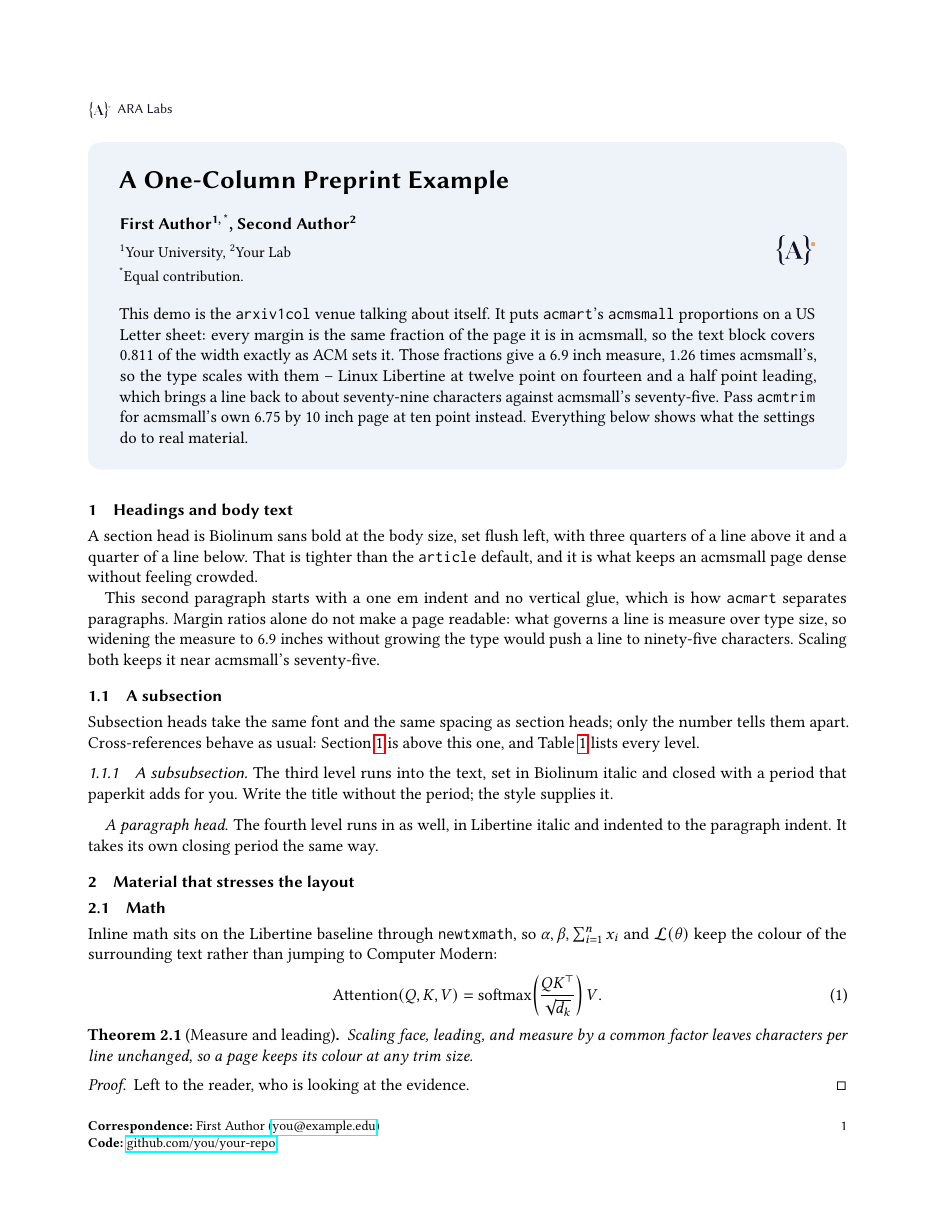
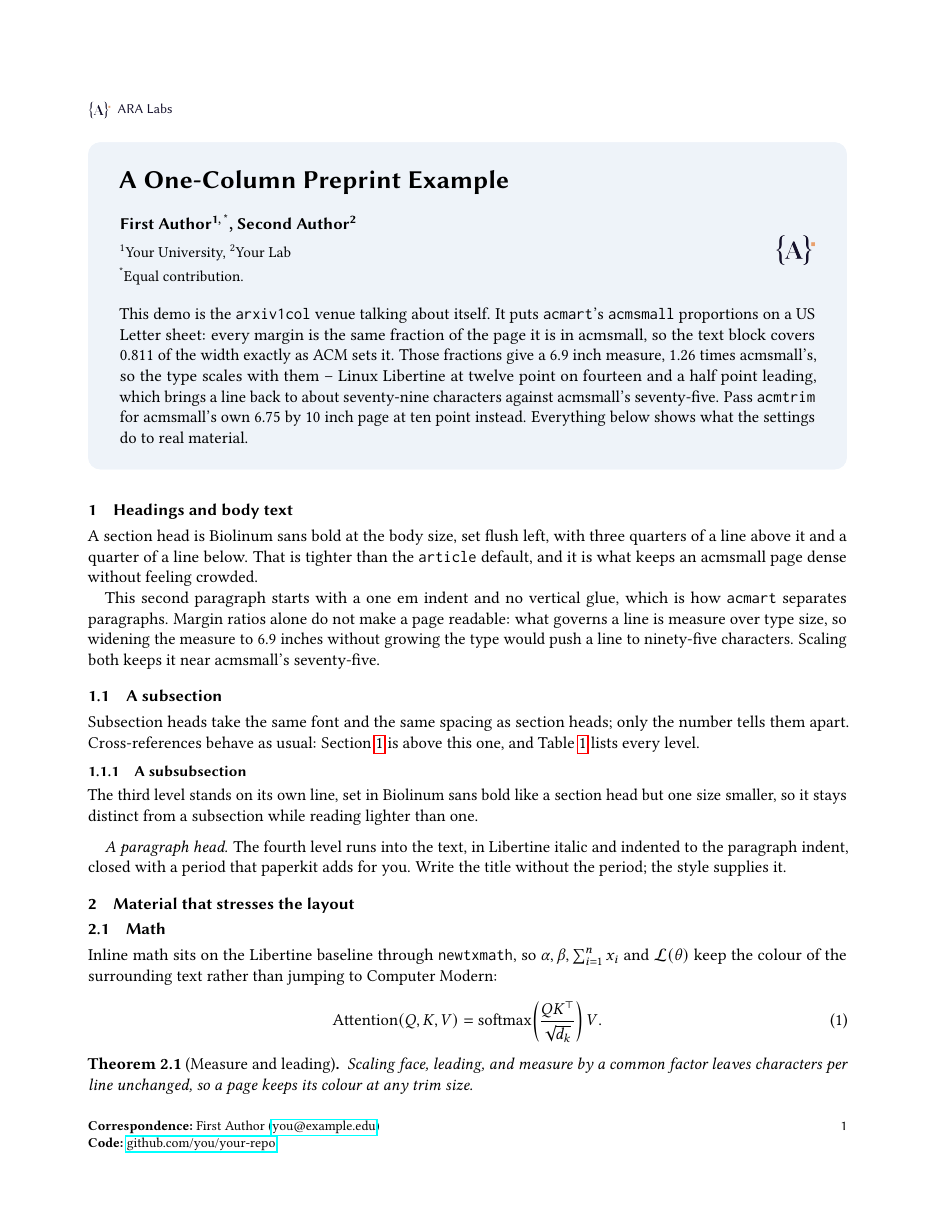
docs: refresh arxiv1col demo and preview for the standalone subsubsection style (#6)
The demo's own prose still described subsubsection as a run-in, italic,
period-terminated head, and the heading-levels table listed it that way
too -- both stale after the subsubsection heading style changed to a
standalone bold line. Update the prose and table, and regenerate
docs/preview-arxiv1col.png from the rebuilt demo so the README
screenshot matches the current output.

Changed region(s): [[0.093, 0.6116, 0.8995, 0.9174]]

diff --git a/examples/arxiv1col-demo.tex b/examples/arxiv1col-demo.tex
@@ -78,13 +78,14 @@ Section~\ref{sec:headings} is above this one, and Table~\ref{tab:levels} lists
 every level.
 
 \subsubsection{A subsubsection}
-The third level runs into the text, set in Biolinum italic and closed with a
-period that paperkit adds for you. Write the title without the period; the
-style supplies it.
+The third level stands on its own line, set in Biolinum sans bold like a
+section head but one size smaller, so it stays distinct from a subsection
+while reading lighter than one.
 
-\paragraph{A paragraph head} The fourth level runs in as well, in Libertine
-italic and indented to the paragraph indent. It takes its own closing period
-the same way.
+\paragraph{A paragraph head} The fourth level runs into the text, in
+Libertine italic and indented to the paragraph indent, closed with a period
+that paperkit adds for you. Write the title without the period; the style
+supplies it.
 
 \section{Material that stresses the layout}
 
@@ -122,10 +123,10 @@ from \verb|\cmark| and \verb|\xmark|.
     \toprule
     Level & Font & Run-in & Numbered \\
     \midrule
-    \texttt{\textbackslash section}       & Biolinum bold   & \xmark & \cmark \\
-    \texttt{\textbackslash subsection}    & Biolinum bold   & \xmark & \cmark \\
-    \texttt{\textbackslash subsubsection} & Biolinum italic & \cmark & \cmark \\
-    \texttt{\textbackslash paragraph}     & Libertine italic & \cmark & \xmark \\
+    \texttt{\textbackslash section}       & Biolinum bold       & \xmark & \cmark \\
+    \texttt{\textbackslash subsection}    & Biolinum bold       & \xmark & \cmark \\
+    \texttt{\textbackslash subsubsection} & Biolinum bold small & \xmark & \cmark \\
+    \texttt{\textbackslash paragraph}     & Libertine italic    & \cmark & \xmark \\
     \bottomrule
   \end{tabular}
   \caption{How \texttt{arxiv1col} sets each heading level, following
